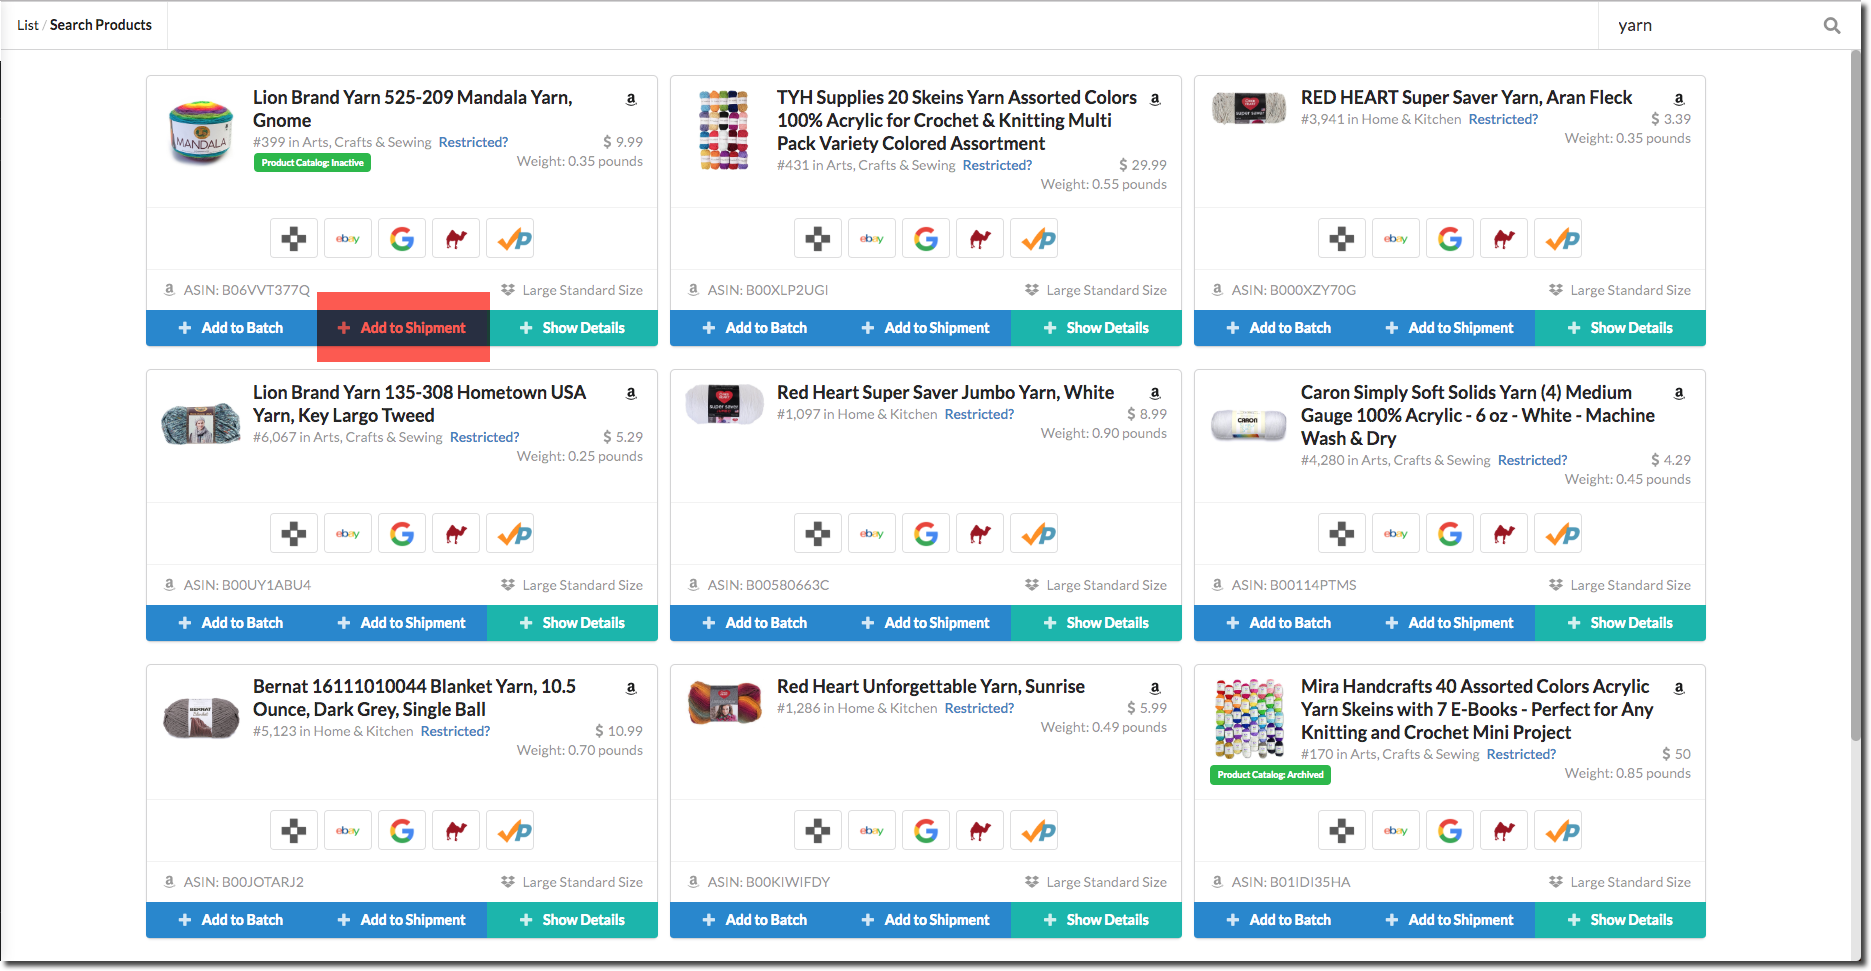
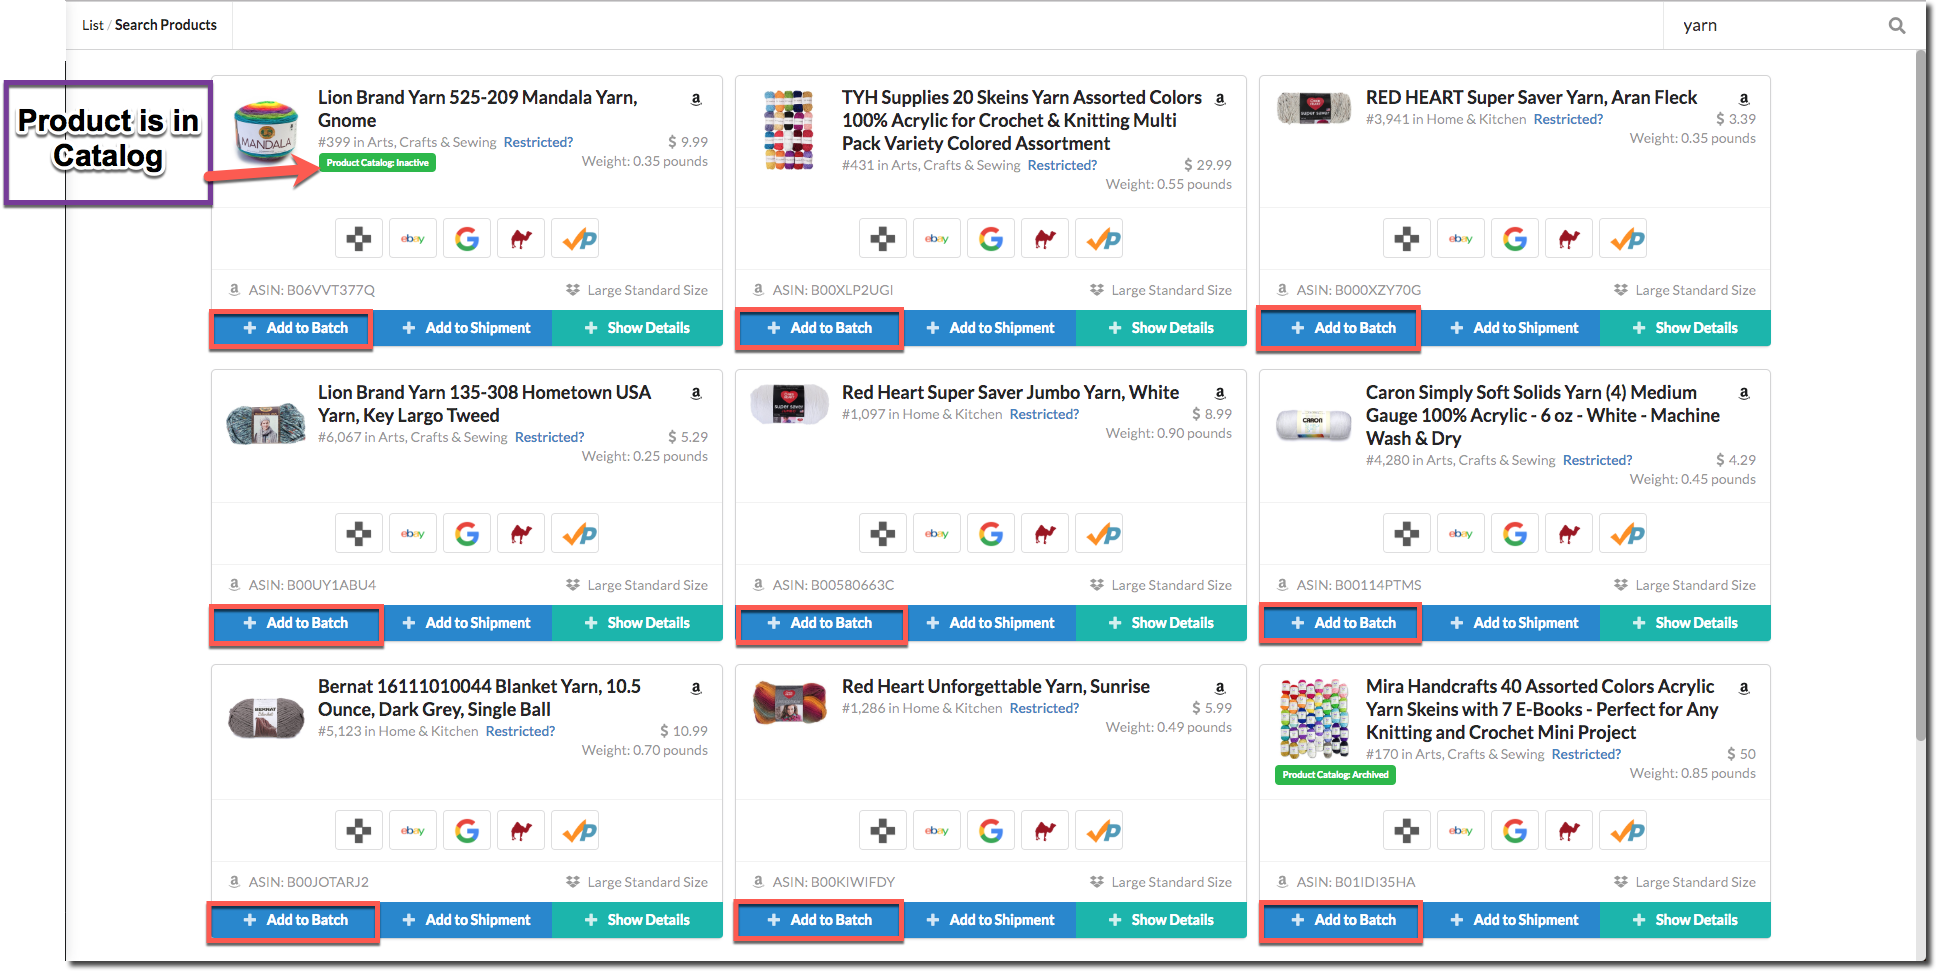
GitBook: [master] one page and 13 assets modified

diff --git a/list-ship.md b/list-ship.md
@@ -1,11 +1,59 @@
 # LIST/SHIP
 
-## STEP 1: ADD TO CATALOGUE
+## STEP 1: ADD TO CATALOG
 
-Seller can add a product to catalogue by any of following Methods.
+Seller can add a product to catalog by any of following Methods.
 
-* [ADD TO BATCH](list-ship.md#step1-1).
+* [ADD TO BATCH](list-ship.md#step1).
 * [ADD TO SHIPMENT](list-ship.md#step1).
+
+## ADD TO BATCH {#step1}
+
+### PRODUCT NOT IN SELLER'S CATALOG
+
+1\) Search a product using Title, ASIN, UPC, EAN or ISBN on List/Ship → List Products page.
+
+![Search Product](.gitbook/assets/1..png)
+
+2\) Click on `Add to Batch` button to add a product in a batch.
+
+![](.gitbook/assets/2..png)
+
+{% hint style="info" %}
+**Product Catalog: Archived** Tag means Product is in Seller's Catalog
+{% endhint %}
+
+3\) If Product is previously Added To Catalogue Seller Sku is selected in MSKU Dropdown else Seller can use ADD NEW option of MSKU Dropdown to **Generate** a new SKU.
+
+![Add To Batch Side Bar](.gitbook/assets/3.%20%281%29.png)
+
+4\) Enter **Ship From Warehouse**, **Packing Type,** **Labelling Preference, Batch Privacy, Batch Name & Select Batch** to add product to batch.
+
+![Add To Batch Side Bar](.gitbook/assets/4.%20%281%29.png)
+
+{% hint style="info" %}
+Seller can choose from the dropdown \(Select Batch\) if he wants to add a product to a Draft/Open/New.
+{% endhint %}
+
+5\) Add Quantity to ship and you can Edit any Information\(In Information, Repricer & Restock Tabs\) you want.
+
+![Add To Batch Side Bar](.gitbook/assets/5.%20%281%29.png)
+
+6\) After adding all the details to product. Click on `Add to Batch` button to add product to a batch.
+
+![Add To Batch Side Bar](.gitbook/assets/6..png)
+
+{% hint style="info" %}
+Product is Added To Catalog if you use ADD NEW option of MSKU Dropdown else Product Quantity is Increased.
+{% endhint %}
+
+### PRODUCT EXIST IN SELLER'S CATALOG
+
+#### ADD SINGLE PRODUCT TO BATCH
+
+Same as Product is [Not in Seller's Catalog](list-ship.md#products-not-in-sellers-catalog).
+
+#### ADD MULTIPLE PRODUCTS TO BATCH
 
 ## ADD TO SHIPMENT {#step1}
 
@@ -13,11 +61,15 @@ Seller can add a product to catalogue by any of following Methods.
 
 1\) Search a product using Title, ASIN, UPC, EAN or ISBN on List/Ship → List Products page.
 
-![Search Products](.gitbook/assets/1..png)
+![Search Products](.gitbook/assets/1.%20%281%29.png)
 
 2\) Click on `Add to Shipment` button to add a product to a shipment.
 
-![Search Products](.gitbook/assets/2..png)
+![Search Product](.gitbook/assets/2.%20%281%29.png)
+
+{% hint style="info" %}
+**Product Catalog: Archived** Tag means Product is in Seller's Catalog
+{% endhint %}
 
 3\) If Product is previously Added To Catalogue Seller Sku is selected in MSKU Dropdown else Seller can use ADD NEW option of MSKU Dropdown to **Generate** a new SKU.
 
@@ -27,20 +79,20 @@ Seller can add a product to catalogue by any of following Methods.
 
 ![Add To Shipment Side Bar](.gitbook/assets/4..png)
 
-5\) Add Quantity to ship and you can Edit any Information you want.
+5\) Add Quantity to ship and you can Edit any Information\(In Information, Repricer & Restock Tabs\) you want.
 
 ![Add To Shipment Side Bar](.gitbook/assets/5..png)
 
 6\) After adding all the details to product. Click on `Add to Shipment` button to add a product to a shipment. It will take you to the Shipment → Review page.
 
-![Add To Shipment Side Bar](.gitbook/assets/6..png)
+![Add To Shipment Side Bar](.gitbook/assets/6.%20%281%29.png)
 
 7\) After verifying your related information on [**Review Page**](list-ship.md#review-items-page) click on `Create Shipments` button to Ship Product according to Quantity.
 
 ![Review Page](.gitbook/assets/7..png)
 
 {% hint style="info" %}
-Product is Added To Catalogue if you use ADD NEW option of MSKU Dropdown.
+Product is Added To Catalog if you use ADD NEW option of MSKU Dropdown else Product Quantity is Increased.
 {% endhint %}
 
 ### FROM INVENTORY/LIST PAGE
@@ -137,31 +189,6 @@ Product is Added To Catalogue if you use ADD NEW option of MSKU Dropdown.
 ![](.gitbook/assets/10-create-shipments.png)
 
 ## ADD TO BATCH {#step1}
-
-### Products not in Seller’s Catalog:
-
-1. Search a product using Title, ASIN, UPC, EAN or ISBN on List/Ship → Search Product [page](https://oneapp.minmaxind.com/list/product-search).![Shipment List](.gitbook/assets/search-product.gif)
-2. Click on `Add to Batch` button to add a product in a batch.
-3. Seller can manually add a SKU or generate a new SKU using the button Generate MSKU.
-4. Similarly you can add in your Product Cost Price/List Price and required Quantity to ship.
-5. Seller can add in Minimum/Maximum Sell Price for a repricer at the time of adding a product, similarly he can choose the reprice strategy to be applied to this product, reprice can be enabled for this product right away using the Reprice toggle button on this form, which would only be enabled if min, max price and strategy is selected.
-6. Seller can choose from the dropdown if he wants to add a product to a `DRAFT`_**\(default\)/**_`OPEN` /`NEW` ****batch
-
-> ```text
-> Before shipping a product to Amazon, it is must to list product in seller’s catalog.
-> If seller wants to list a product using a different SKU he also has to choose this process.
-> ```
-
-### Products Exist in Seller’s Catalog:
-
-#### Add Single Product to Batch:
-
-1. Search a product using Title, ASIN, UPC, EAN or ISBN on List/Ship → Search Product page.
-2. Click on Add to Batch button to add a product in an DRAFT or OPEN batch.![](.gitbook/assets/list-item.png)
-3. By default first Amazon fulfilled product exists in a catalog would be selected with a condition and SKU, seller can choose from a list if it has multiple products with that ASIN, Form would be auto filled with last used values for this product.
-4. Similarly you can add in your Product Cost Price/List Price and required Quantity to ship.
-5. Seller can add in Minimum/Maximum Sell Price for a repricer at the time of adding a product, similarly he can choose the reprice strategy to be applied to this product, reprice can be enabled for this product right away using the Reprice toggle button on this form, which would only be enabled if min, max price and strategy is selected.
-6. Seller can choose from the dropdown if he wants to add a product to a DRAFT or OPEN batch.
 
 #### Add Multiple Products to Batch:
 
